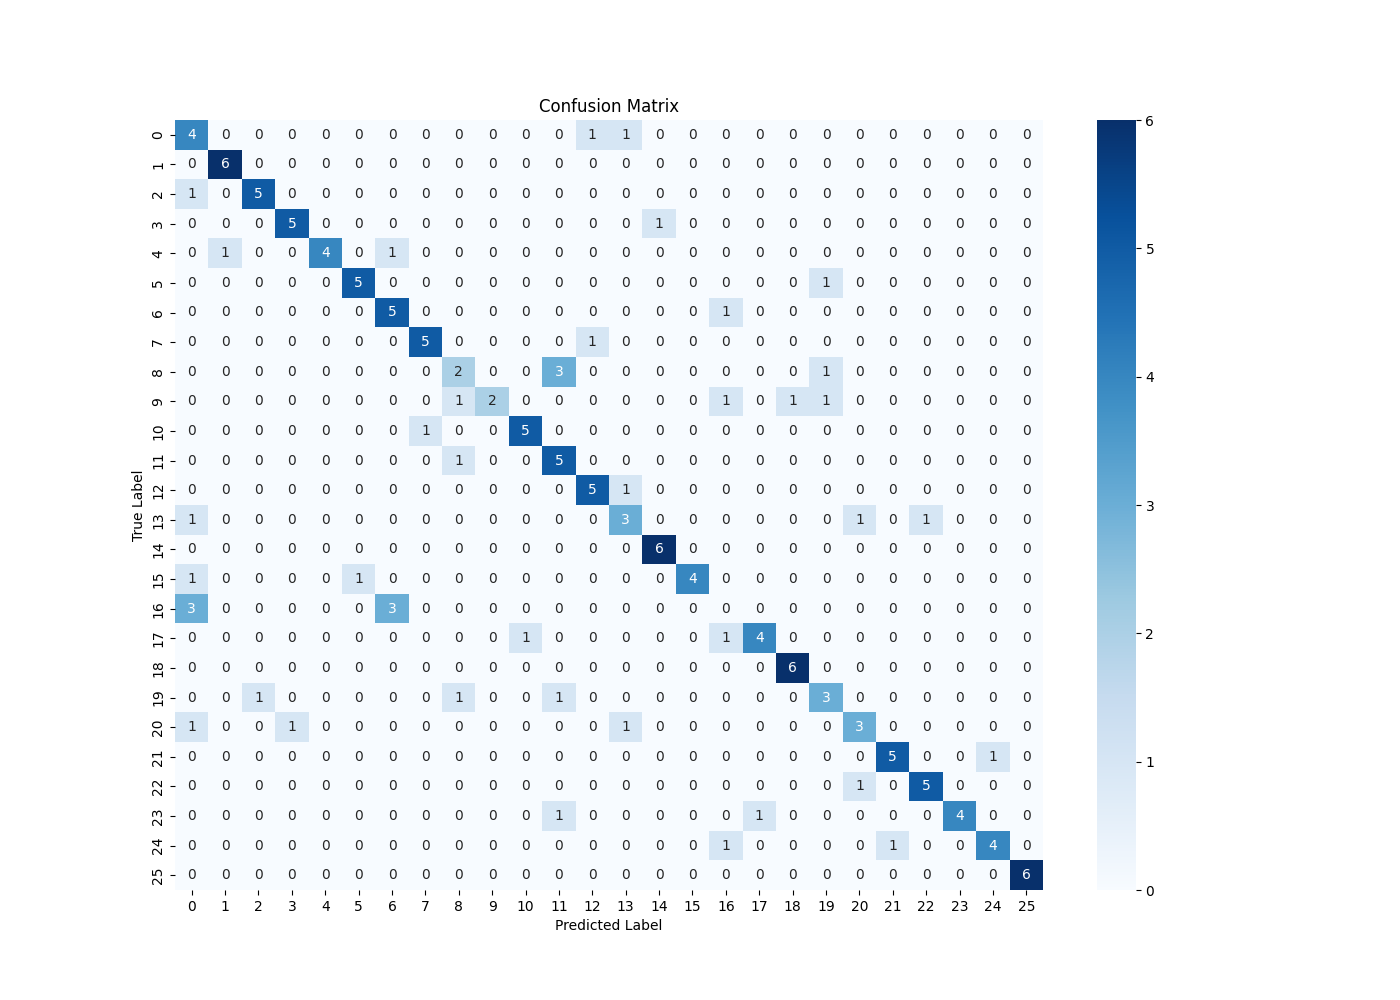
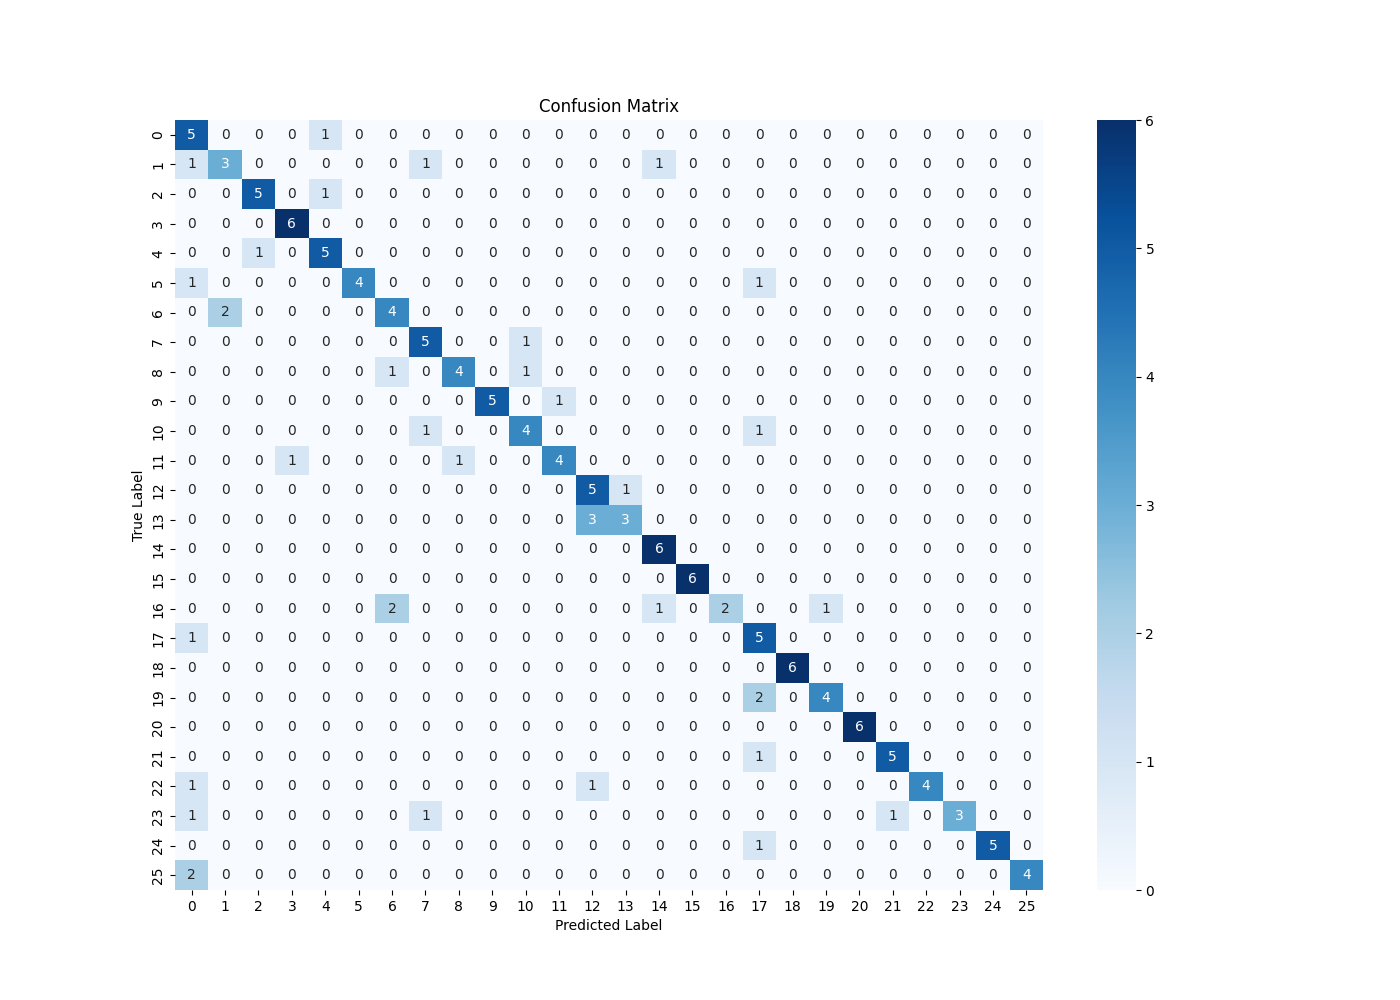
revision

diff --git a/main.py b/main.py
@@ -33,7 +33,12 @@ print("Dataset path:", path)
 
 csv_path = os.path.join(path, "emnist-letters-train.csv")
 
-data = pd.read_csv(csv_path, header=None)
+data = pd.read_csv(
+    csv_path,
+    header=None,
+    nrows=5000,
+    dtype=np.uint8
+)
 
 print("Dataset loaded successfully")
 